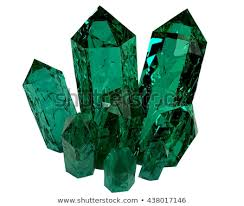
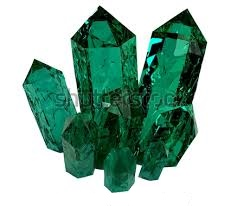
updated background and colors

Changed region(s): [[0.2295, 0.9612, 0.7746, 0.9903], [0.6025, 0.2621, 0.6311, 0.2913]]

diff --git a/assets/javascript/game.js b/assets/javascript/game.js
@@ -33,50 +33,52 @@ var makeRandom = function (min, max) {
 }
 
 //Random number between 19 and 120:
-randomNumber = makeRandom(19, 120);
-
-//Random number between 1 and 12
-redCrystal = makeRandom(1, 12);
-blueCrystal = makeRandom(1, 12);
-yellowCrystal = makeRandom(1, 12);
-greenCrystal = makeRandom(1, 12);
-
-//To display random number on score card:
-$("#random-number").html("Random Number: " + randomNumber);
-
-//Console testing random number generator
-console.log("Target Score: " + randomNumber);
-console.log("Red: " + redCrystal + " | Blue: " + blueCrystal + " | Yellow: " + yellowCrystal + " |Green: " + greenCrystal);
-
-
-//JQuery
-
 reset();
-$("#red-button").on("click", function () {
-    myScore = myScore + redCrystal;
-    $("#player-score").html("My Score: " + myScore);
-    console.log(myScore);
-    winLose();
-})
 
-$("#blue-button").on("click", function () {
-    myScore = myScore + blueCrystal;
-    $("#player-score").html("My Score: " + myScore);
-    console.log(myScore);
-    winLose();
-})
+// $("#red-button").on("click", function () {
+//     myScore = myScore + redCrystal;
+//     $("#player-score").html("My Score: " + myScore);
+//     winLose();
+// })
 
-$("#yellow-button").on("click", function () {
-    myScore = myScore + yellowCrystal;
-    $("#player-score").html("My Score: " + myScore);
-    console.log(myScore);
-    winLose();
-})
+// $("#blue-button").on("click", function () {
+//     myScore = myScore + blueCrystal;
+//     $("#player-score").html("My Score: " + myScore);
+//     winLose();
+// })
 
-$("#green-button").on("click", function () {
-    myScore = myScore + greenCrystal;
+// $("#yellow-button").on("click", function () {
+//     myScore = myScore + yellowCrystal;
+//     $("#player-score").html("My Score: " + myScore);
+//     winLose();
+// })
+
+// $("#green-button").on("click", function () {
+//     myScore = myScore + greenCrystal;
+//     $("#player-score").html("My Score: " + myScore);
+//     winLose();
+// })
+
+$(".button").on("click", function () {
+    var clicked = $(this).attr("id");
+    if (clicked === "red-button") {
+        myScore = myScore + redCrystal;
+
+    }
+    if (clicked === "blue-button") {
+        myScore = myScore + blueCrystal;
+
+    }
+    if (clicked === "yellow-button") {
+        myScore = myScore + yellowCrystal;
+
+    }
+    if (clicked === "green-button") {
+        myScore = myScore + greenCrystal;
+
+    }
+
     $("#player-score").html("My Score: " + myScore);
-    console.log(myScore);
     winLose();
 })
 

diff --git a/assets/css/style.css b/assets/css/style.css
@@ -1,5 +1,11 @@
 body {
-    background-color: gray;
+    /* background-color: gray; */
+    font-family: 'Cinzel Decorative', cursive;
+    font-family: 'UnifrakturMaguntia', cursive;
+    font-family: 'Pirata One', cursive;
+    border-style: groove;
+    border-width: 10px;
+    border-color: #990099;
 }
     
     #container {
@@ -7,32 +13,36 @@ body {
     margin: 0 auto;
     max-width: 960px;
     margin-top: 100px;
-    background-color: white;
-    border: 1px solid black;
     padding: 15px;
-    height: 550px;
+    background-color: #ffe6ff;
+    border-radius: 8px;
+    border-style: groove;
+    border-width: 10px;
+    border-color: #990099;
 }
 
 #game-header {
-    background-color: maroon;
+    background-color: #990099;
     color: white;
     width: 100%;
     height: 150px;
     line-height: 3;
     font-size: 50px;
     text-align: center;
+    /* border: 2px solid black; */
+    border-radius: 18px;
+    
 }
 
 #rules {
-    background-color:gray;
     color: black;
-    font-weight: 700;
-    
+    /* font-weight: 700; */
     margin: 0 auto;
-    padding: 15px;
-    max-width: 500px;
-    font-size: 12px;
-    border: 10px solid white;
+    padding: 25px;
+    max-width: 650px;
+    font-size: 18px;
+    /* border: 10px solid white; */
+    background-color: #ffe6ff;
 }
 
 .box {
@@ -43,9 +53,11 @@ body {
     width: 200px;
     height: 100px;
     padding: 15px;
-    border: 1px solid black;        
-    background-color: maroon;
+    border: 1px solid grey;        
+    background-color: #990099;
     color: white;
+    border-radius: 18px;
+    font-size: 24px;
 }
 
 #score-card {
@@ -54,11 +66,12 @@ body {
 
 #images {
     margin: 0 auto;
-    width: 520px;
+    width: 560px;
 }
 
 #gem-holder {
     padding: 15px;
+    /* border: solid 2px black; */
 }
 
 #red-button {

diff --git a/index.html b/index.html
@@ -8,13 +8,15 @@
     <meta name="viewport" content="width=device-width, initial-scale=1">
     <link rel="stylesheet" type="text/css" media="screen" href="assets/css/reset.css" />
     <link rel="stylesheet" type="text/css" media="screen" href="assets/css/style.css" />
+    <link href="https://fonts.googleapis.com/css?family=Cinzel+Decorative|Pirata+One|UnifrakturMaguntia" rel="stylesheet">
 
 </head>
 
 <body>
+
     <div id="container">
         <div id="game-header">
-            <h1>CrystalsCollector!</h1>
+            <h1> Crystals Collector!</h1>
         </div>
 
         <div id="rules">
@@ -52,6 +54,18 @@
         </div>
 
     </div>
+
+    <style>
+        body {
+            background-image: url("assets/images/globe.GIF");
+            /* background-repeat: no-repeat, repeat; */
+            background-repeat: space;
+            background-size: 50% 100%;
+            
+            
+        }
+    </style>
+
 
 </body>
 
